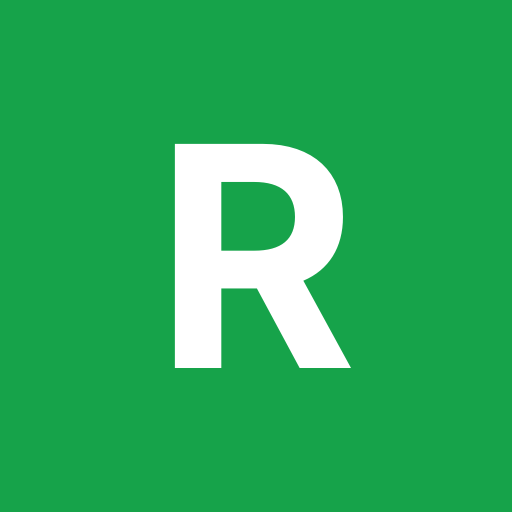
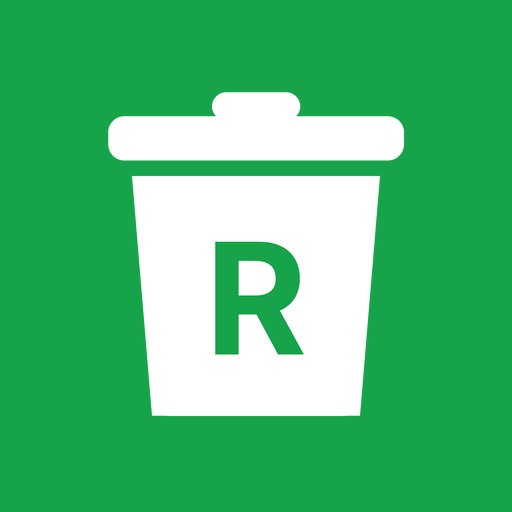
로고를 "쓰레기통 안의 R" 로 교체: 스토어·웹·안드로이드 런처 아이콘
- tool/make_icons.py 로 전부 재생성 가능
- 스토어 512 아이콘, 피처 그래픽, 웹 아이콘·파비콘, 레거시 mipmap 5종, 적응형 아이콘(배경색 + 전경 + 모노크롬)

Claude-Session: https://claude.ai/code/session_018NbLYFfdSc34xDohZCmD6q

Changed region(s): [[0.1875, 0.1562, 0.8125, 0.8125]]

diff --git a/tool/make_icons.py b/tool/make_icons.py
@@ -1,0 +1,134 @@
+"""ReSAI 로고(쓰레기통 안의 R) 생성기.
+
+python3 tool/make_icons.py
+→ assets/store/, web/icons/, web/favicon.png, android mipmap/적응형 아이콘을 모두 다시 만든다.
+"""
+from PIL import Image, ImageDraw, ImageFont
+import os
+
+ROOT = os.path.dirname(os.path.dirname(os.path.abspath(__file__)))
+GREEN = (22, 163, 74)
+WHITE = (255, 255, 255)
+INK = (17, 17, 17)
+MUTED = (107, 107, 107)
+BOLD = os.path.join(ROOT, 'assets/fonts/Pretendard-Bold.otf')
+SEMI = os.path.join(ROOT, 'assets/fonts/Pretendard-SemiBold.otf')
+REG = os.path.join(ROOT, 'assets/fonts/Pretendard-Regular.otf')
+SS = 4  # 슈퍼샘플링 배율
+
+
+def bin_mark(size, fg=WHITE, bg=GREEN, scale=1.0):
+    """투명 배경 위에 쓰레기통 + 안쪽에 R(배경색으로 뚫림). [scale] 로 마크 크기 조절."""
+    S = size * SS
+    img = Image.new('RGBA', (S, S), (0, 0, 0, 0))
+    d = ImageDraw.Draw(img)
+    u = S * scale  # 마크가 차지하는 한 변
+    ox = (S - u) / 2
+    oy = (S - u) / 2
+    r = u * 0.04
+    # 손잡이
+    hw, hh = u * 0.22, u * 0.07
+    d.rounded_rectangle([ox + (u - hw) / 2, oy + u * 0.09, ox + (u + hw) / 2, oy + u * 0.09 + hh], radius=r, fill=fg)
+    # 뚜껑
+    lw, lh = u * 0.74, u * 0.11
+    d.rounded_rectangle([ox + (u - lw) / 2, oy + u * 0.15, ox + (u + lw) / 2, oy + u * 0.15 + lh], radius=r, fill=fg)
+    # 몸통 (아래로 살짝 좁아지는 사다리꼴 + 둥근 아래 모서리)
+    top, bottom = oy + u * 0.30, oy + u * 0.90
+    tw, bw = u * 0.62, u * 0.52
+    body = [
+        (ox + (u - tw) / 2, top), (ox + (u + tw) / 2, top),
+        (ox + (u + bw) / 2, bottom), (ox + (u - bw) / 2, bottom),
+    ]
+    d.polygon(body, fill=fg)
+    # 아래 모서리 둥글게: 바닥 캡슐
+    d.rounded_rectangle([ox + (u - bw) / 2, bottom - u * 0.08, ox + (u + bw) / 2, bottom], radius=u * 0.05, fill=fg)
+    # 안쪽 R (배경색으로)
+    f = ImageFont.truetype(BOLD, int(u * 0.40))
+    b = d.textbbox((0, 0), 'R', font=f, anchor='lt')
+    w, h = b[2] - b[0], b[3] - b[1]
+    cx = ox + u / 2
+    cy = (top + bottom) / 2 + u * 0.005
+    d.text((cx - w / 2 - b[0], cy - h / 2 - b[1]), 'R', font=f, fill=bg, anchor='lt')
+    return img.resize((size, size), Image.LANCZOS)
+
+
+def tile(size, radius_ratio, mark_scale=0.78):
+    """초록 타일 + 마크."""
+    S = size * SS
+    img = Image.new('RGBA', (S, S), (0, 0, 0, 0))
+    d = ImageDraw.Draw(img)
+    if radius_ratio > 0:
+        d.rounded_rectangle([0, 0, S - 1, S - 1], radius=int(S * radius_ratio), fill=GREEN)
+    else:
+        d.rectangle([0, 0, S, S], fill=GREEN)
+    img = img.resize((size, size), Image.LANCZOS)
+    m = bin_mark(size, scale=mark_scale)
+    img.alpha_composite(m)
+    return img
+
+
+def save(img, rel, mode='RGBA'):
+    path = os.path.join(ROOT, rel)
+    os.makedirs(os.path.dirname(path), exist_ok=True)
+    (img.convert(mode)).save(path, optimize=True)
+    print('wrote', rel, img.size)
+
+
+def main():
+    # 스토어
+    save(tile(512, 0), 'assets/store/icon_512.png', 'RGB')
+    # 피처 그래픽
+    fg = Image.new('RGB', (1024, 500), WHITE)
+    d = ImageDraw.Draw(fg)
+    t = tile(220, 0.22)
+    fg.paste(t, (96, 140), t)
+    x = 372
+    d.text((x, 150), 'ReSAI', font=ImageFont.truetype(BOLD, 84), fill=INK)
+    d.text((x, 258), '찍으면 알려주는 AI 분리수거', font=ImageFont.truetype(SEMI, 40), fill=INK)
+    d.text((x, 318), '사진 한 장이면 어디에 버릴지, 뭘 떼야 하는지 바로.', font=ImageFont.truetype(REG, 26), fill=MUTED)
+    fchip = ImageFont.truetype(SEMI, 22)
+    cx, cy = x, 380
+    for c in ['사진 분류', '수거일 알림', '가족 공유']:
+        b = d.textbbox((0, 0), c, font=fchip, anchor='lt')
+        w = b[2] - b[0]
+        d.rounded_rectangle([cx, cy, cx + w + 36, cy + 44], radius=22, fill=(247, 247, 248))
+        d.text((cx + 18, cy + 10), c, font=fchip, fill=INK, anchor='lt')
+        cx += w + 36 + 12
+    save(fg, 'assets/store/feature_graphic_1024x500.png', 'RGB')
+
+    # 웹
+    save(tile(192, 0.22), 'web/icons/Icon-192.png')
+    save(tile(512, 0.22), 'web/icons/Icon-512.png')
+    save(tile(192, 0, 0.6), 'web/icons/Icon-maskable-192.png')
+    save(tile(512, 0, 0.6), 'web/icons/Icon-maskable-512.png')
+    save(tile(64, 0.22).resize((32, 32), Image.LANCZOS), 'web/favicon.png')
+
+    # 안드로이드 런처 (레거시 정사각 + 적응형)
+    legacy = {'mdpi': 48, 'hdpi': 72, 'xhdpi': 96, 'xxhdpi': 144, 'xxxhdpi': 192}
+    for dpi, px in legacy.items():
+        save(tile(px, 0.18), f'android/app/src/main/res/mipmap-{dpi}/ic_launcher.png')
+    # 적응형: 108dp 중 안전 영역 66dp → 마크는 캔버스의 약 0.56
+    fgsize = {'mdpi': 108, 'hdpi': 162, 'xhdpi': 216, 'xxhdpi': 324, 'xxxhdpi': 432}
+    for dpi, px in fgsize.items():
+        save(bin_mark(px, scale=0.50), f'android/app/src/main/res/mipmap-{dpi}/ic_launcher_foreground.png')
+    xml_dir = os.path.join(ROOT, 'android/app/src/main/res/mipmap-anydpi-v26')
+    os.makedirs(xml_dir, exist_ok=True)
+    for name in ['ic_launcher', 'ic_launcher_round']:
+        with open(os.path.join(xml_dir, f'{name}.xml'), 'w') as f:
+            f.write('''<?xml version="1.0" encoding="utf-8"?>
+<adaptive-icon xmlns:android="http://schemas.android.com/apk/res/android">
+    <background android:drawable="@color/ic_launcher_background"/>
+    <foreground android:drawable="@mipmap/ic_launcher_foreground"/>
+    <monochrome android:drawable="@mipmap/ic_launcher_foreground"/>
+</adaptive-icon>
+''')
+    colors = os.path.join(ROOT, 'android/app/src/main/res/values/colors.xml')
+    s = open(colors).read()
+    if 'ic_launcher_background' not in s:
+        s = s.replace('</resources>', '    <color name="ic_launcher_background">#16A34A</color>\n</resources>')
+        open(colors, 'w').write(s)
+    print('ok')
+
+
+if __name__ == '__main__':
+    main()
